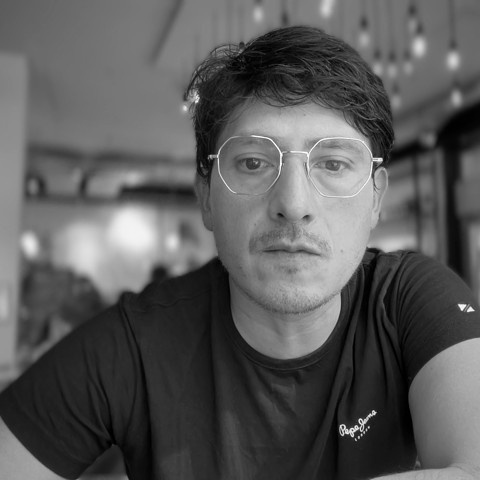
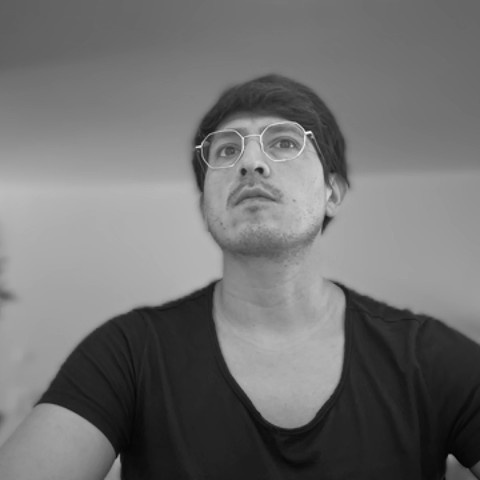
fix path to model

diff --git a/app.py b/app.py
@@ -14,7 +14,7 @@ app = Flask(__name__)
 CORS(app)  # Enable CORS for cross-origin requests
 
 # Configuration
-MODEL_PATH = '../best_model/model_cnn_1.keras'
+MODEL_PATH = 'best_model/model_cnn_1.keras'
 IMG_SIZE = 48
 CLASS_NAMES = ['happy', 'neutral', 'sad', 'surprise']  # Update with your actual class names
 
